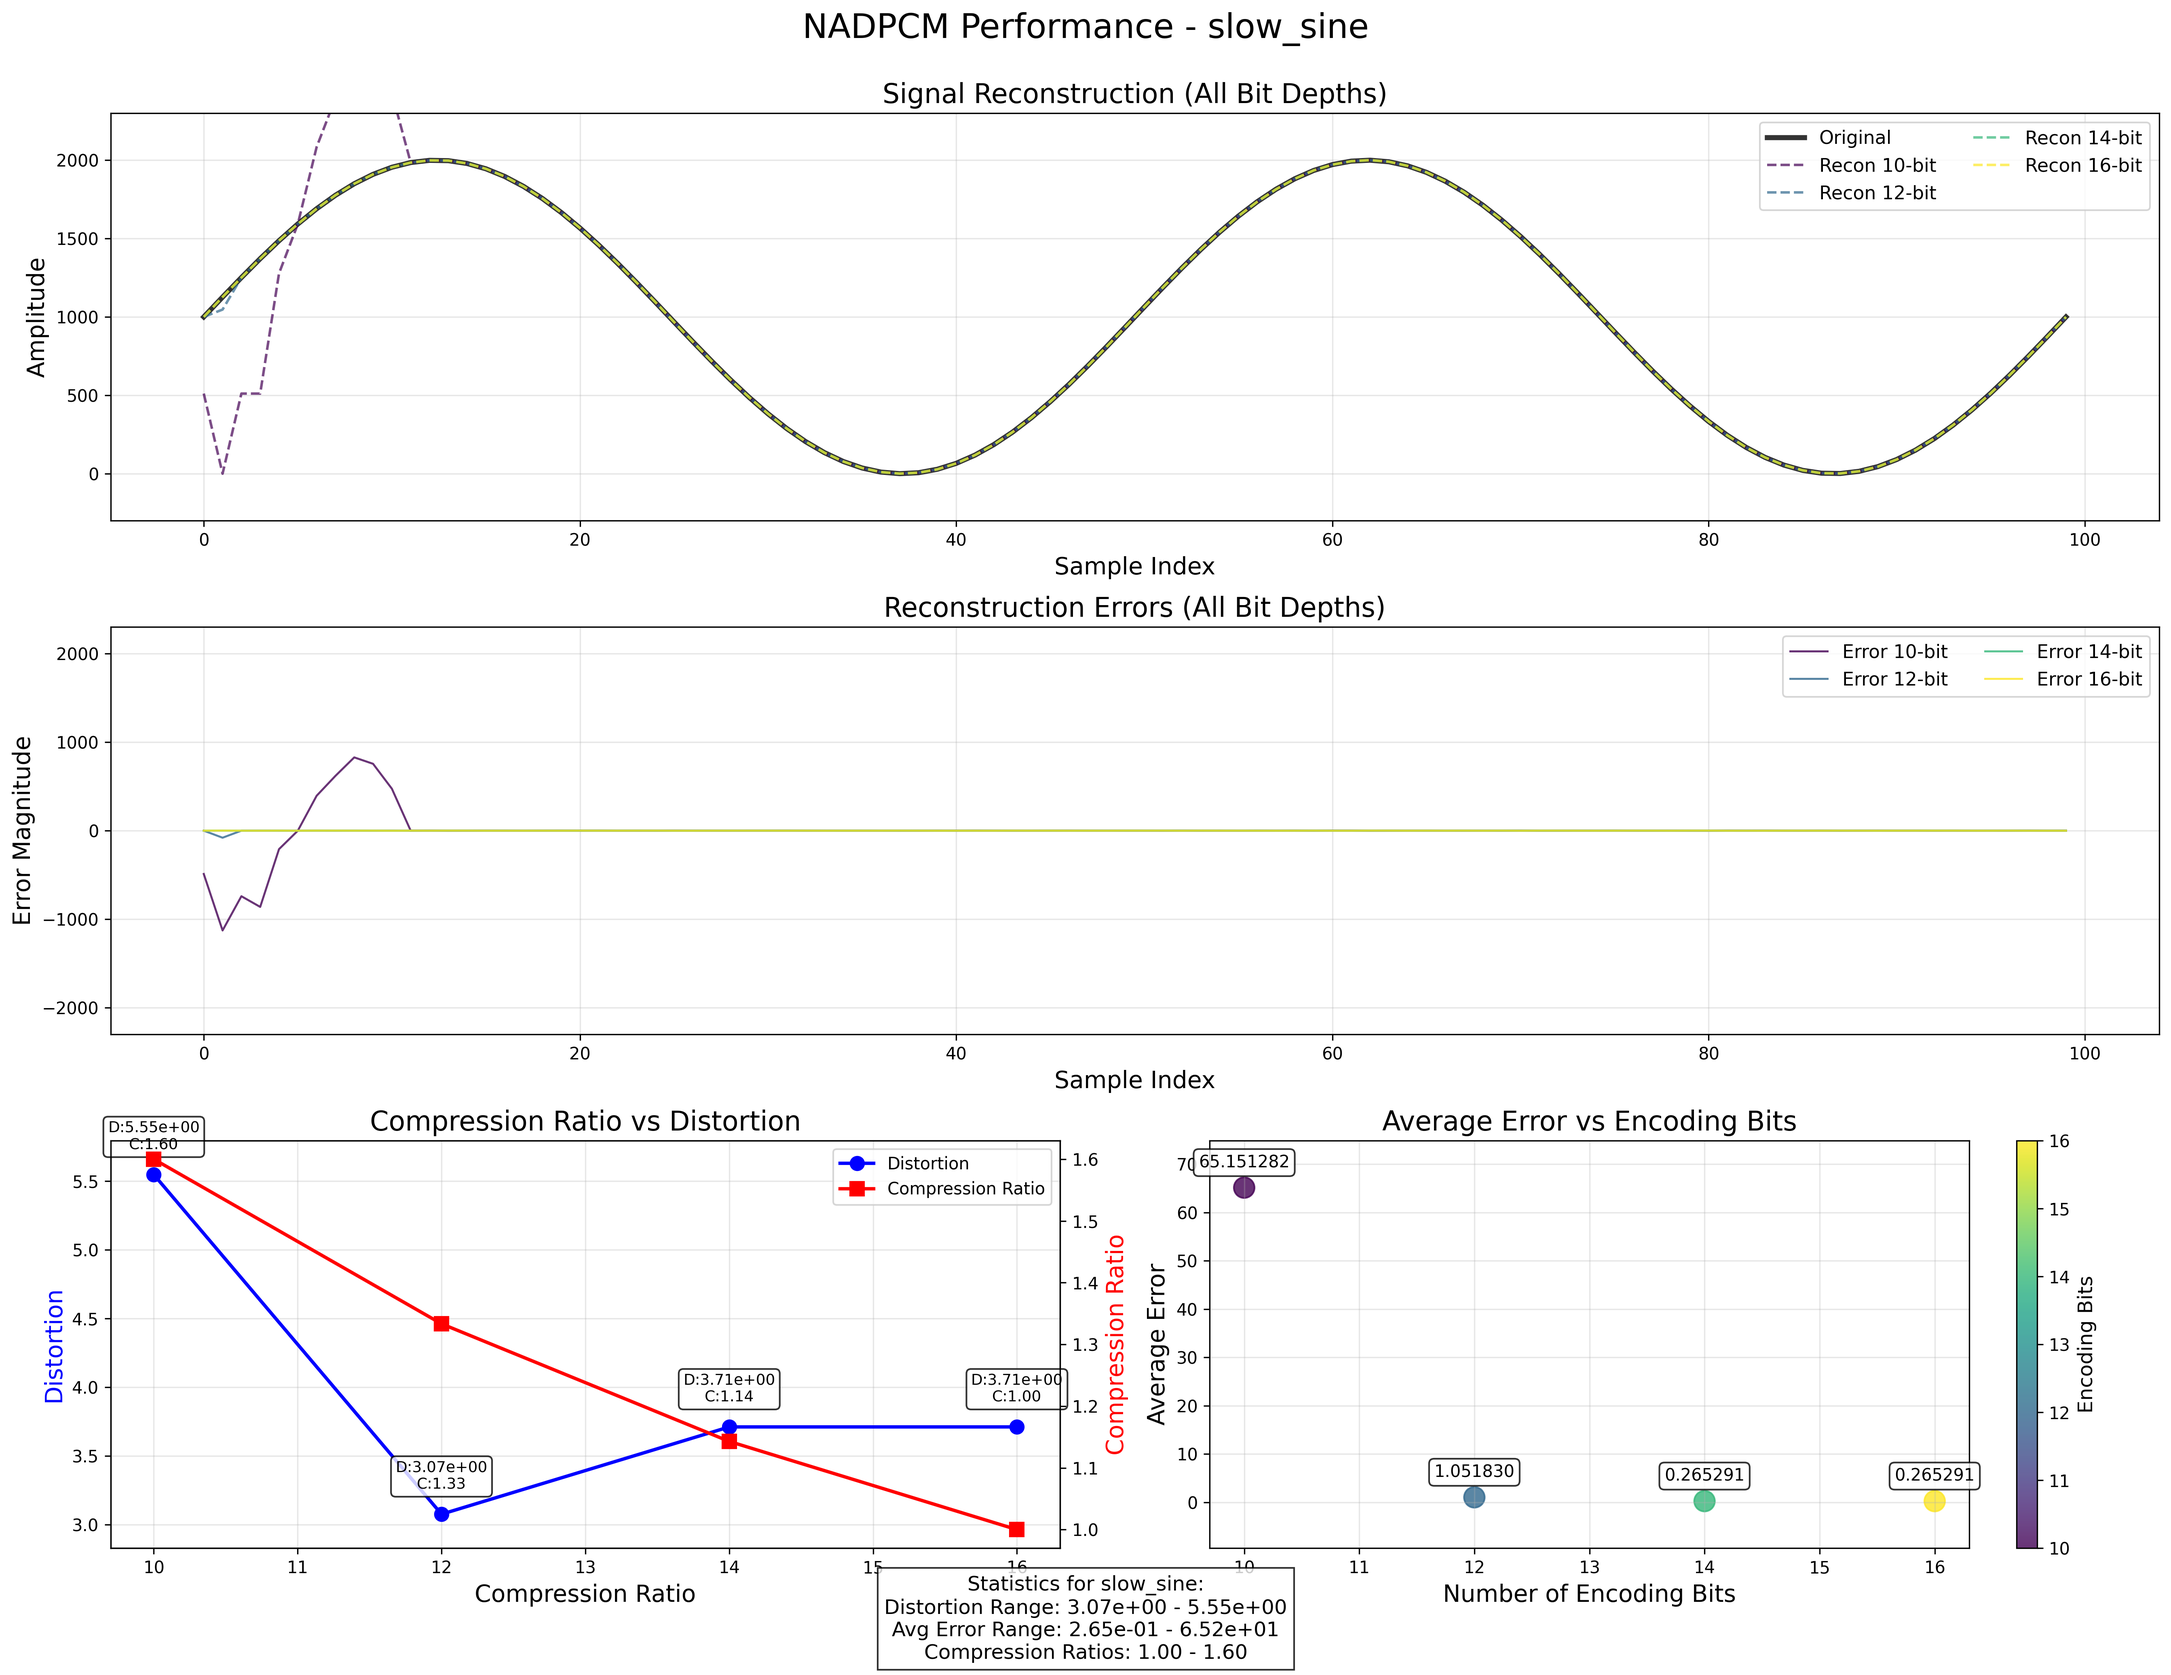
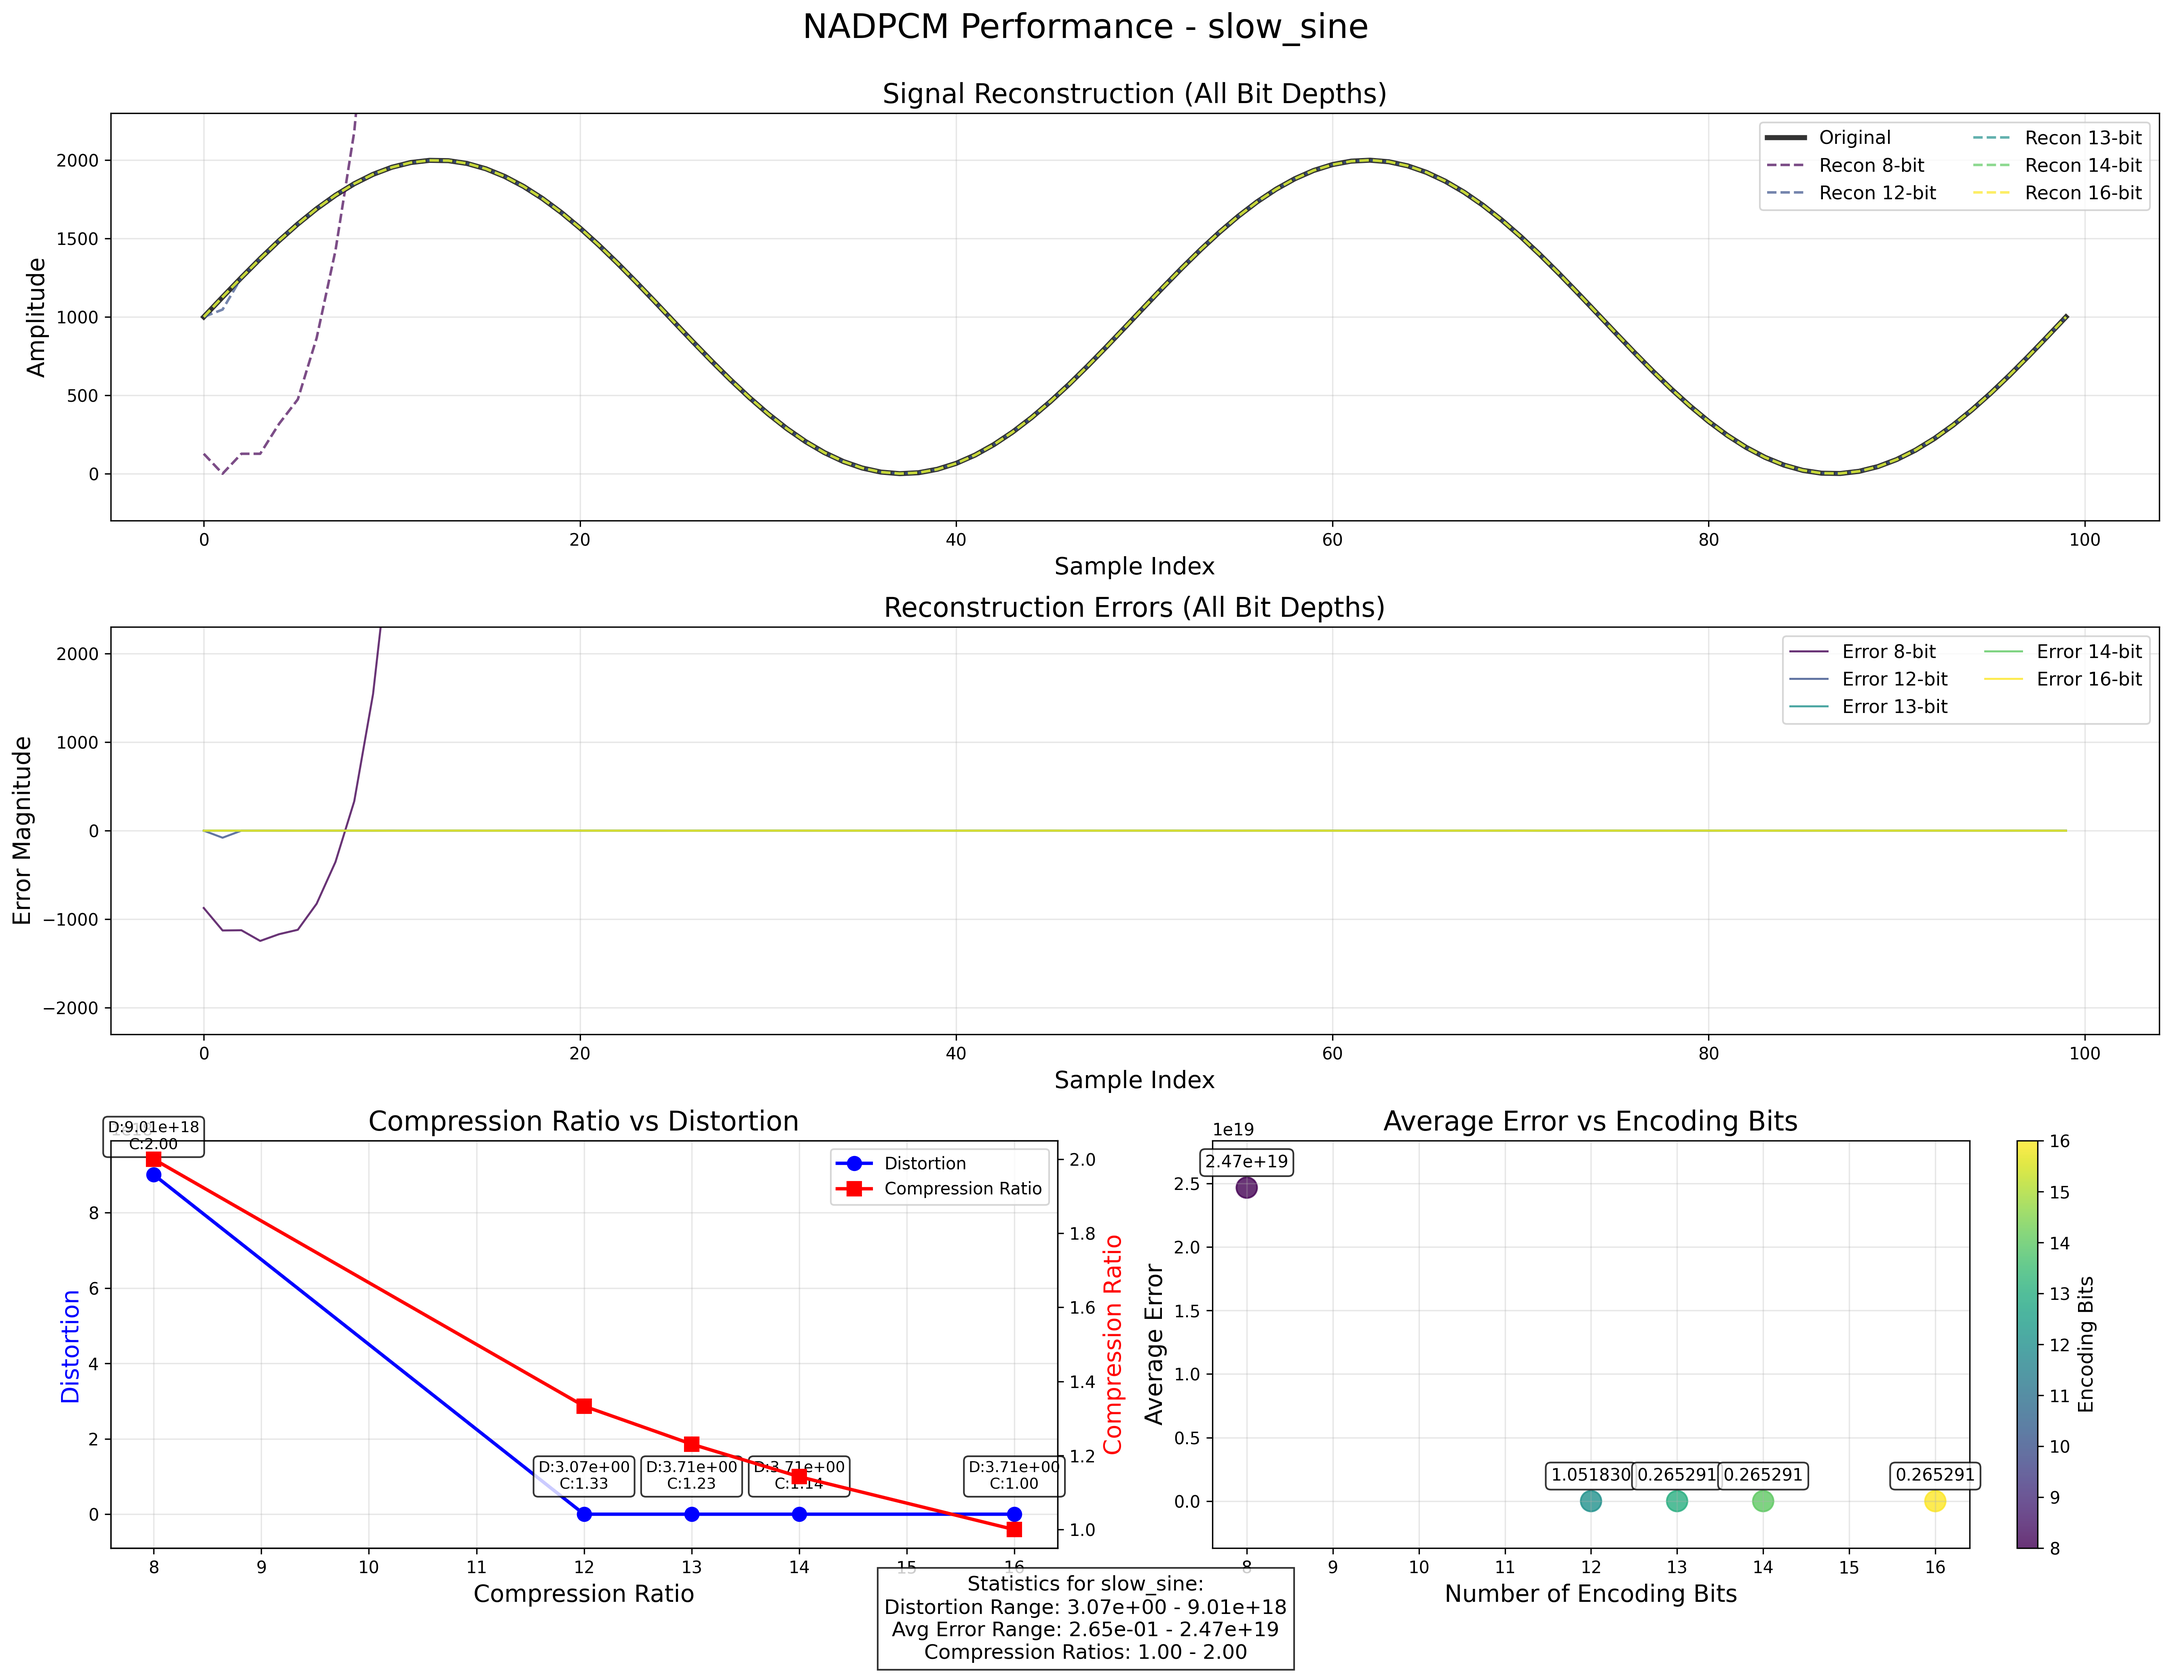
add ...

diff --git a/nadpcm_experiment.py b/nadpcm_experiment.py
@@ -9,7 +9,7 @@ import matplotlib.ticker as mticker
 
 def run_nadpcm_experiment():
     
-    n_bits_list = [10, 12, 14, 16]  
+    n_bits_list = [8, 12, 13, 14, 16]  
     n = 100  
     h_depth = 3  
     
